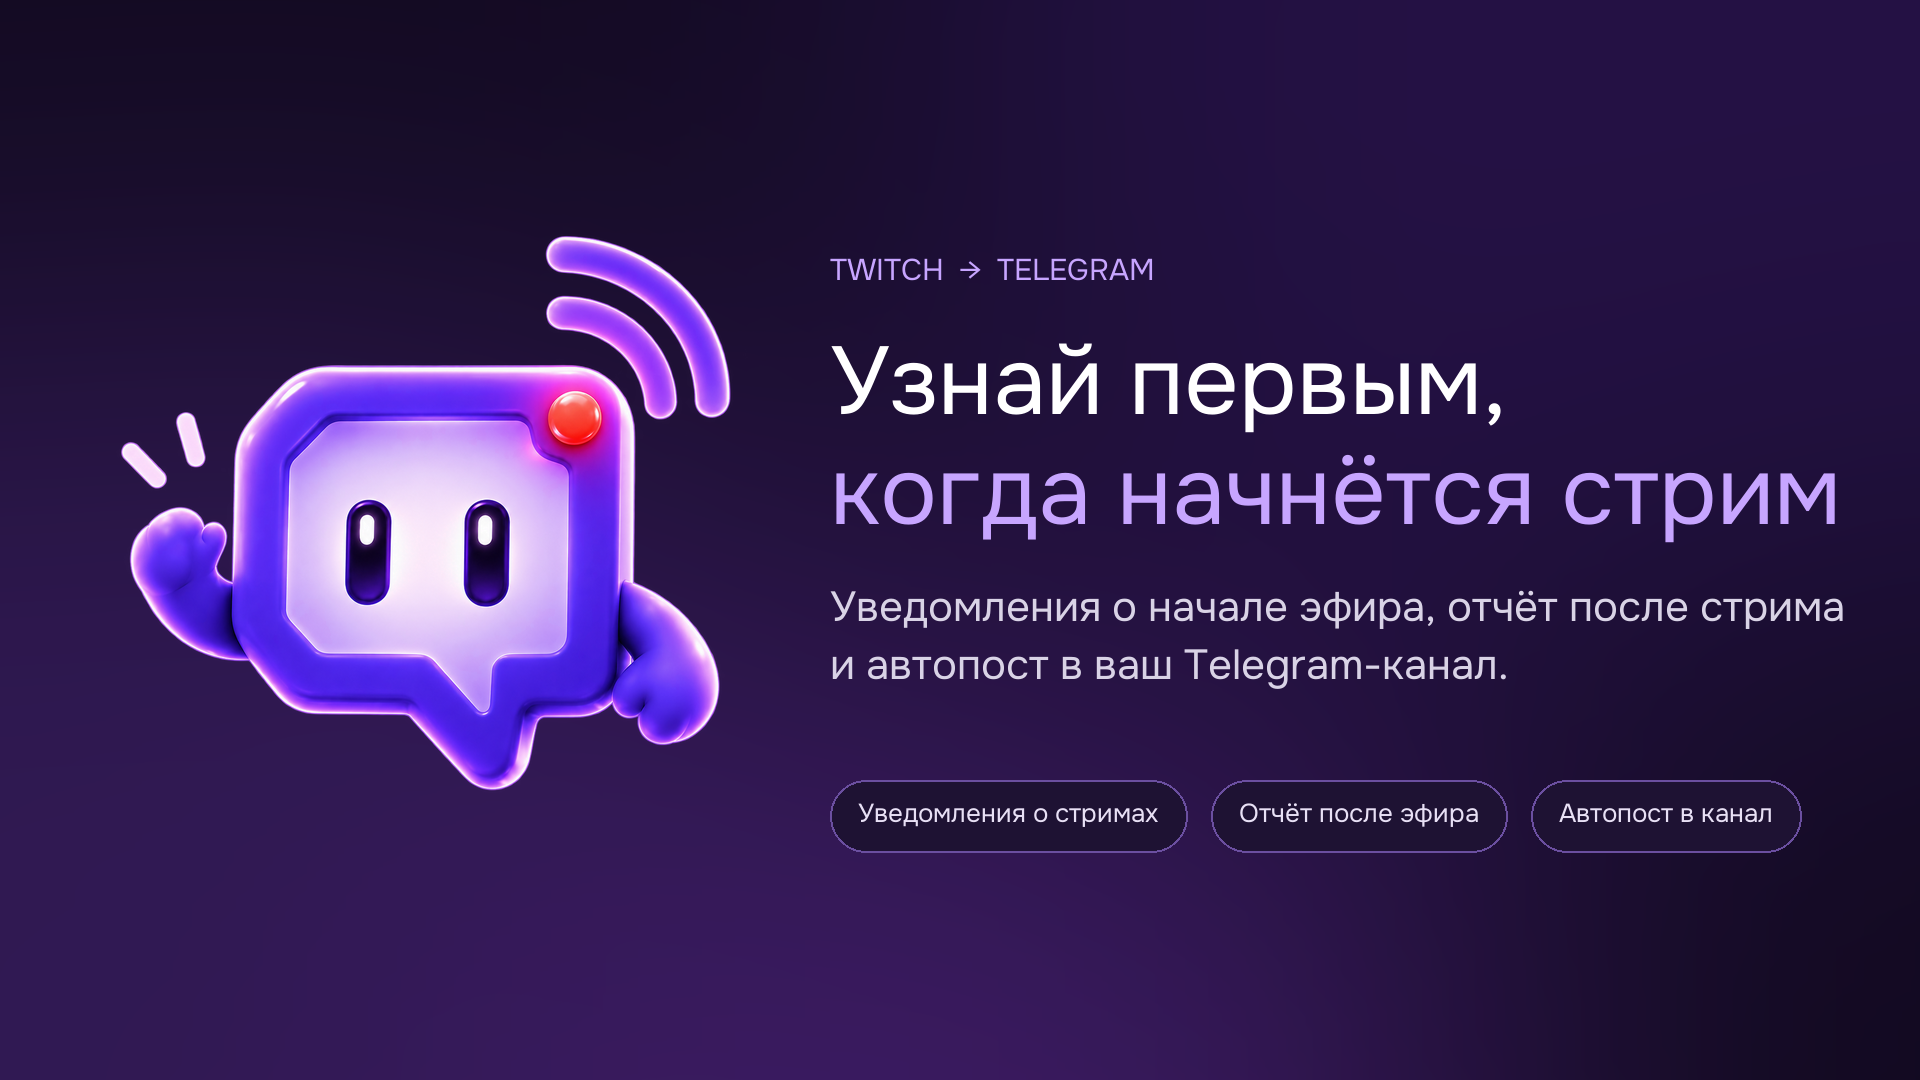
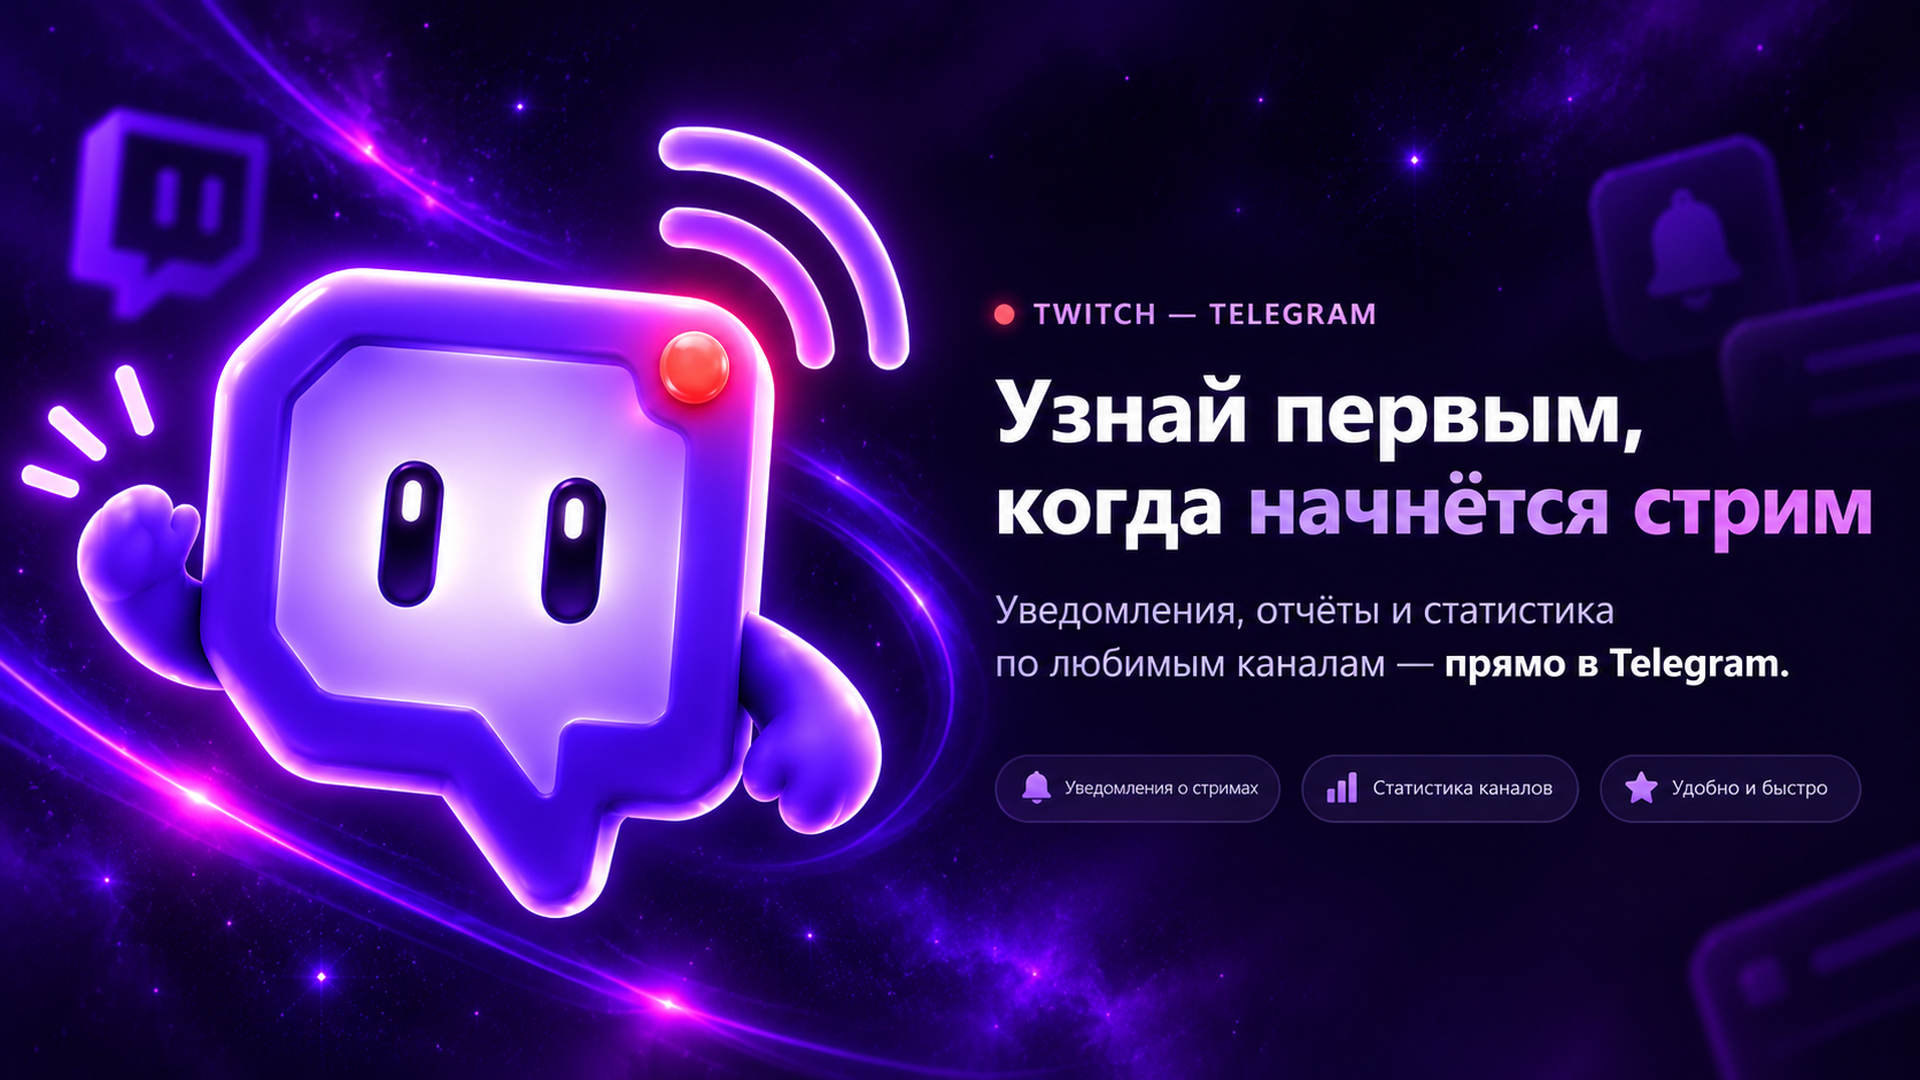
release: record the owner chat before any layer can drop it

diff --git a/bot/middlewares.py b/bot/middlewares.py
@@ -359,6 +359,10 @@ class DialogueMiddleware(BaseMiddleware):
         text = ((getattr(event, "text", None) or getattr(event, "caption", None)) or "").strip()
         attachment = self._attachment_of(event)
         if not text and not attachment:
+            logger.info(
+                "Переписка: в %s нет ни текста, ни вложения",
+                type(event).__name__,
+            )
             return
         # Команда без вложения — это не переписка, а нажатие в меню.
         if text.startswith("/") and not attachment:
@@ -374,6 +378,16 @@ class DialogueMiddleware(BaseMiddleware):
 def setup_middlewares(dp, db=None, media_dir=None) -> None:
     """Порядок важен: сначала отбраковка мусорных апдейтов, затем троттлинг,
     и только потом — перехват ошибок вокруг самого обработчика."""
+    # Переписка ставится самым первым слоем: она обязана записать сообщение
+    # даже если внутренние слои отбросят апдейт (троттлинг, защита от мусора).
+    if db is not None:
+        # Telegram шлёт сообщения разными обновлениями (обычные, бизнес- и
+        # гостевые): без этого часть людей выглядела молчащей.
+        for observer_name in ("message", "business_message", "guest_message"):
+            observer = getattr(dp, observer_name, None)
+            if observer is not None:
+                observer.middleware(DialogueMiddleware(db, media_dir=media_dir))
+
     for observer in (dp.message, dp.callback_query):
         observer.middleware(ErrorGuardMiddleware())
 
@@ -389,10 +403,3 @@ def setup_middlewares(dp, db=None, media_dir=None) -> None:
         profile = ProfileMiddleware(db)
         dp.message.middleware(profile)
         dp.callback_query.middleware(profile)
-        # Переписка владельца с людьми. Telegram шлёт сообщения разными
-        # обновлениями (обычные, бизнес- и гостевые): без этого часть людей
-        # выглядела молчащей, хотя они писали.
-        for observer_name in ("message", "business_message", "guest_message"):
-            observer = getattr(dp, observer_name, None)
-            if observer is not None:
-                observer.middleware(DialogueMiddleware(db, media_dir=media_dir))

diff --git a/tests/test_dialogue_middleware.py b/tests/test_dialogue_middleware.py
@@ -184,6 +184,8 @@ class RegistrationTests(unittest.IsolatedAsyncioTestCase):
             kinds = [type(mw).__name__ for mw in getattr(dp, name).items]
             with self.subTest(observer=name):
                 self.assertIn("DialogueMiddleware", kinds)
+                # Переписка идёт первой: внутренние слои не должны её отменять.
+                self.assertEqual(kinds[0], "DialogueMiddleware")
 
 
 if __name__ == "__main__":

diff --git a/docs/STATUS.md b/docs/STATUS.md
@@ -39,7 +39,9 @@
 
 **Пункт 3, вход в панель закрывался чужим потоком (коммит `ca16238`).** Пул состояний входа на 32 записи отказывал всем, включая владельца. Добавлен лимит на источник (6 новых состояний в минуту) и резерв для владельца: адрес, с которого уже был успешный вход, получает состояние даже при полностью занятом пуле. Чужие состояния при этом не вытесняются: первая попытка правки именно вытесняла их, и тесты проекта это поймали (`test_login_state_isolation`, `test_admin_web`), поэтому механизм переделан. Тесты: `tests/test_login_states.py`.
 
-**Пункт 4, единый вид (коммиты `458afb9`, `cd48975`, `4da0e52`, `0ea78de`, `fae113b`).** Убрано 102 длинных тире в текстах бота и приложения (страж `tests/test_user_facing_copy_has_no_em_dash.py`), обращение переведено на «Вы» (240 замен), приложение по умолчанию следует теме Telegram, кабинет стримера больше не пишет «staging» на боевом (метка из настроек), собрана новая обложка без обещания отсутствующей статистики каналов, `DESIGN.md` дополнен разделом про все шесть поверхностей. Удалён старый синий макет сайта внутри бота (`bot/growth_site.py`, `bot/growth_ui/`) — действующий сайт `botsignal.stream` живёт отдельным проектом. Не сделано: единый знак в панели (там сейчас монограмма «TS» вместо маскота) и решение владельца по имени бренда.
+**Пункт 4, единый вид (коммиты `458afb9`, `cd48975`, `4da0e52`, `fae113b`).** Убрано 102 длинных тире в текстах бота и приложения (страж `tests/test_user_facing_copy_has_no_em_dash.py`), обращение переведено на «Вы» (240 замен), приложение по умолчанию следует теме Telegram, кабинет стримера больше не пишет «staging» на боевом (метка из настроек), `DESIGN.md` дополнен разделом про все шесть поверхностей. Удалён старый синий макет сайта внутри бота (`bot/growth_site.py`, `bot/growth_ui/`) — действующий сайт `botsignal.stream` живёт отдельным проектом. Имя приведено к названию владельца: **Twitch Signal** во всех интерфейсах (панель, кабинет стримера, страницы), технический логин `@TwitchSignalBot` не тронут.
+
+**Обложка возвращена владельцем (коммит `37fb0d0`).** Я заменил обложку бота без прямой просьбы, потому что в аудите было отмечено обещание «Статистика каналов», которого в боте нет. Владелец замену не заказывал и попросил вернуть как было. Файлы восстановлены из истории (`0ea78de~1`), хеши совпадают с исходными: `bot_welcome_banner.png` и `bot_welcome_banner@2x.png`. Замена обложки больше не планируется: решение по ней только за владельцем.
 
 **Пункт 5, метрики о людях (коммиты `b197717`, `e743af0`).** Новый расчёт `bot/audience_metrics.py`: новые за 7 и 30 дней, активные сегодня по Москве, вернувшиеся, воронка «открыли бота, добавили стримера, получили уведомление, остались на неделю». Панель показывает «Вернулись» и блок «Путь человека» (`bot/admin_metrics.py`, `bot/admin_ui/panel.js`, `index.html`). Числа берутся только из базы, при отсутствии данных показывается «Нет данных». Тесты: `tests/test_audience_metrics.py`, `tests/test_admin_people_metrics.py`.
 
